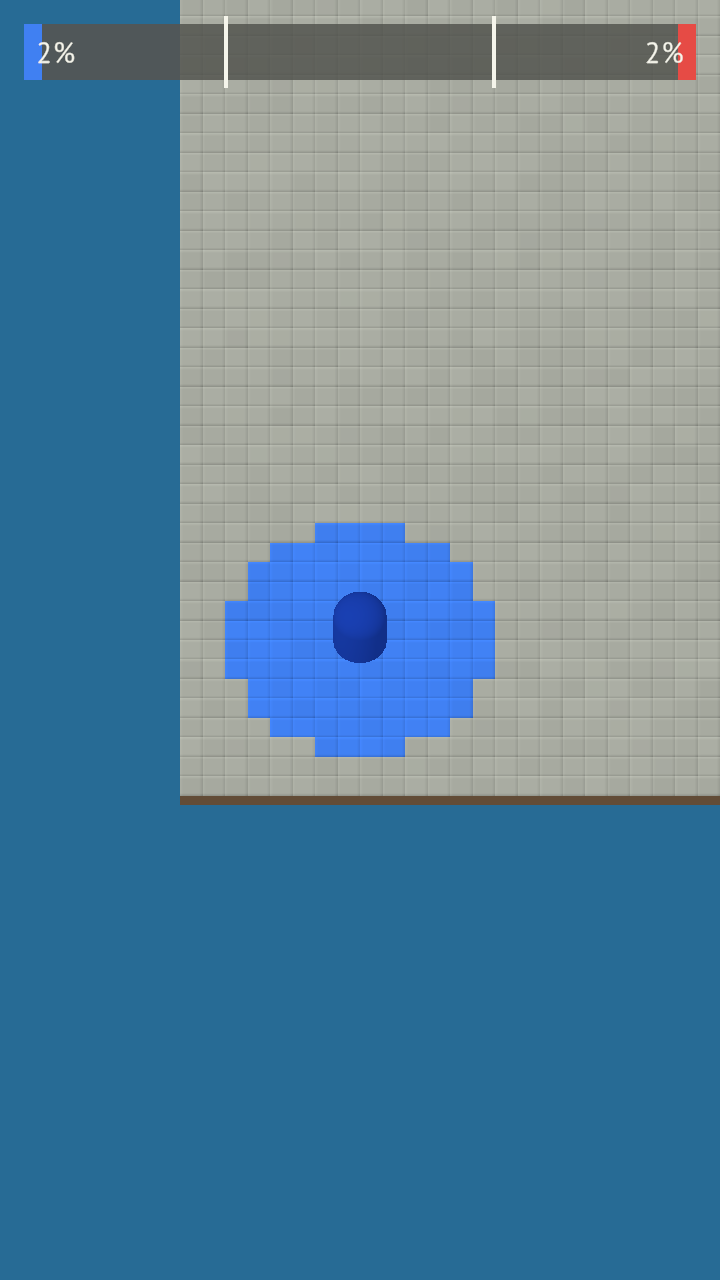
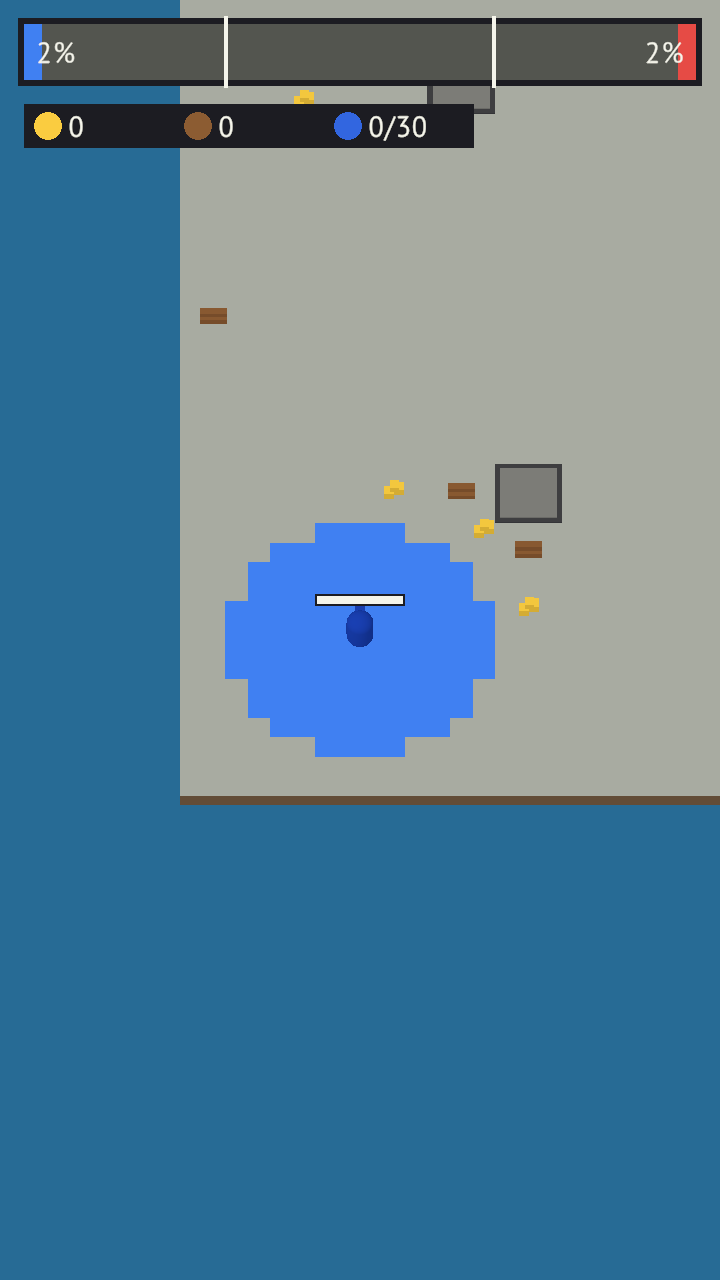
Add stage 1 layer 2 checks and morning report

diff --git a/Docs/MORNING_REPORT.md b/Docs/MORNING_REPORT.md
@@ -1,41 +1,47 @@
-# Утренний отчёт — этап 1, слой 1 «Ядро»
+# Утренний отчёт — этап 1, слои 1 и 2
 
-3 ноября 2026. ТЗ: `borderbite-docs/tz/stage-1-prototype.md`, раздел 2. Задачи 1.1–1.5 сделаны и отмечены в `PROGRESS.md`. Слои 2–4 не начинались.
+3 ноября 2026. ТЗ: `borderbite-docs/tz/stage-1-prototype.md`, разделы 2 и 3. Задачи 1.1–1.5 и 2.1–2.5 сделаны и отмечены в `PROGRESS.md`. Слои 3–4 не начинались. Слой 2 закоммичен в `develop` локально, без пуша — ждёт вашего слова.
 
-## Что готово
+## Слой 2 «Экономика и армия» — что готово
 
 | № | Задача | Как проверено | Скриншоты (`Docs/Verification/stage-1/`) |
 | --- | --- | --- | --- |
-| 1.1 | Карта 64 × 64, стартовые круги, перекраска со вспышкой 0,15 с, клетки-«кубики» без зазоров, вода вокруг острова | Тесты, Play Mode | `1.1_map_overview`, `1.1_start` |
-| 1.2 | Герой 5 м/с, плавающий стик (палец и мышь), WASD и стрелки, край не пускает и даёт скользить, камера 60° с обзором 16 м по меньшей стороне | Тесты (скорость по диагонали, край), ввод через Input System в Play Mode | `1.2_portrait_*`, `1.2_landscape_mouse_stick` |
-| 1.3 | Кисть радиусом 2 клетки красит серое и красное | Тесты, проход героя | `1.3_gray_*`, `1.3_red_*` |
-| 1.4 | Окружение по 2.5, волна от места замыкания, звук, «+N%» | Тесты на три случая из ТЗ и защищённые клетки; замыкание кольца в Play Mode | `1.4_ring_before`, `1.4_ring_wave`, `1.4_ring_after` |
-| 1.5 | Полоса с отметками 70 %, победа и поражение, итоги через 1 с, «Ещё раз», команды разработчика 2.7 (F1 — сетка, тики, кадры) | Залить 69 %, докрасить героем — победа; поражение командой; en/ru | `1.5_*`, `ui/` |
+| 2.1 | Золото и дерево: стартовые кучки у кругов, появление по таймеру только на сером и не ближе 2 м к героям и бойцам, подбор героем, счётчики в HUD | Тесты; 30 с без движения — 12 золота и 8 дерева, все на сером; подбор | `2.1_*` |
+| 2.2 | 6 мест 3 × 3 зеркально; хозяин — цвет центральной клетки; своё место светится | Скриншоты серого и окрашенного места | `2.2_*` |
+| 2.3 | Стройка 1 с за 10 дерева, цена и кольцо прогресса над местом; аура 3 клетки защищена; найм раз в 0,5 с за 5 золота до 30 | Командой дать ресурсы, построить, нанять 10; красить красным по ауре — круг не меняется | `2.3_*` |
+| 2.4 | Толпа за героем в 1–4 м, бойцы не налезают друг на друга и на героя, 5,5 м/с, кисть 1 клетка | Тесты; герой с 30 бойцами, широкая полоса | `2.4_*` |
+| 2.5 | Автобой: меч 1,2 м / пищаль 6 м со следом выстрела, бойцы бьют вблизи, постройки — когда рядом нет врагов; смерть, возрождение дома через 3 с, 1 с неуязвимости; обломки «кубиками» | Тесты; армия против 10 красных; герой против 12 красных — смерть и возрождение | `2.5_*` |
 
-- EditMode: 79 из 79. Хеш боя на тике 300 одинаков при 60 и 144 кадрах (`39EF5C8375768537`).
-- Сборка Playables: собирается, в headless-Chrome 0 ошибок, по сети 7,06 МиБ (лимит 15), кода других площадок нет. Скриншоты из браузера — `web_playables_*`.
-- Скрипты собираются под все три площадки.
+- EditMode: 95 из 95. Хеш боя на тике 300 одинаков при 60 и 144 кадрах.
+- Сборка Playables: 0 ошибок в браузере, по сети 7,19 МиБ (лимит 15).
+- Поздние правки слоя 1: вода за краем карты и земля без сетки клеток — сделаны (`1.1_ground_no_grid`).
+- Звуки подбора, стройки, найма, удара, выстрела, победы и поражения — синтезированные заглушки, все через таблицу громкостей `Assets/ScriptableObjects/Audio/SoundVolumes.asset`.
 
 ## Что проверить вам
 
-- [ ] Пробежать по серому — полоса за героем без рывков.
-- [ ] Замкнуть кольцо — волна, звук и «+N%» приятны.
-- [ ] Пробежать вдоль края — ничего лишнего не захватывается.
-- [ ] Стик на телефоне: появляется под пальцем, герой слушается сразу.
-- [ ] Докрасить до 70 % — победа, «Ещё раз» работает.
+- [ ] Собрать дерево, встать на своё место — казарма вырастает, кольцо прогресса понятно.
+- [ ] Постоять у казармы — бойцы появляются, армия идёт толпой и красит широкую полосу.
+- [ ] Рост армии виден по ширине полосы.
+- [ ] Бой читается: выстрелы, удары, обломки; смерть и возрождение не путают.
+- [ ] Звуки не надоедают при 30 бойцах.
 
 ## Чего я проверить не мог
 
-- Ощущение управления и стик на настоящем телефоне — только события Input System в редакторе.
-- Звук захвата на слух: проверено только, что он запрашивается. Сам звук — синтезированная заглушка.
-- Производительность на слабом Android и Chromebook.
+- Ощущение управления и игру на настоящем телефоне; звуки на слух.
+- Производительность 60 бойцов на слабом Android и Chromebook.
 
-## Решения, принятые без вас
+## Решения, принятые без вас (в `QUESTIONS.md`)
 
-Записаны в `QUESTIONS.md` документации: ортографическая камера; как считать «16 м по меньшей стороне» в альбоме; «+N%» белым и в пределах экрана; звук-заглушка.
+- Пока штаба нет (слой 3), герой возрождается в центре своей стартовой области.
+- Вражеские бойцы без героя (команда `Soldiers`) держатся точки появления и дерутся с теми, кто подошёл на 4 м.
+- Толпа — места по квадратной спирали через 1 м вокруг героя, у каждого бойца постоянный сдвиг до 0,3 м.
+- Счётчики золота, дерева и армии — заглушка строкой под полосой; в альбоме HUD выше 120 единиц, которые просил дизайнер интерфейса, — уйдёт с его сборщиком.
 
-## Заглушки и что дальше
+## Слой 1 «Ядро» (сделан раньше)
 
-- Стик, полоса и итоги — временный вид из `MainSceneBuilder` без кита и темы. Дизайнер интерфейса соберёт их своими сборщиками на те же компоненты (`MoveStickView`, `TerritoryBarView`, `ResultsView`, `CapturePopupView`).
-- Герой — капсула, клетки и вода — простые шейдеры. Модели не заказывались: ТЗ разрешает заглушки на всех слоях.
-- Код слоя писался одним куском, поэтому он в одном коммите, а не по коммиту на задачу.
+Карта 64 × 64 с водой вокруг, герой со стиком, WASD и мышью, камера 60° с обзором 16 м, кисть, окружение с волной, звуком и «+N%», полоса территории, победа при 70 %, итоги и «Ещё раз», команды разработчика. Скриншоты `1.*`, `ui/`, `web_*`.
+
+## Заглушки
+
+- Герой, бойцы, казармы, кучки — кубы и капсулы; модели заказаны геймдизайнером у 3D Artist.
+- Стик, полоса, счётчики, подписи над местами, итоги — временный вид из `MainSceneBuilder`; дизайнер интерфейса соберёт их на те же компоненты.

diff --git a/Docs/UNITY_TOOLS.md b/Docs/UNITY_TOOLS.md
@@ -13,7 +13,7 @@
 | Скрипты под все площадки | `call` на `Core.EditorTools.PlatformBuild, Assembly-CSharp-Editor`, метод `CheckScripts` |
 | Сборка | `call` на `Core.EditorTools.PlatformBuild, Assembly-CSharp-Editor`, метод `BuildYouTube`, `BuildCrazyGames` или `BuildYandex` → `Build/<площадка>`, `Logs/build_summary.json` |
 | Команды разработчика | `call` на `Meta.DeveloperTools.Services.DevBridge, Assembly-CSharp`: `State`, `SetLanguage`, `BattleCheckStart(кадры)`, `BattleCheckResult`, `SimulatePause`, `SimulateAudio`, `SimulateFocus`, `Interstitial(место)` |
-| Бой | `DevBridge`: `Battle` (тик, итог, доли в ‰, герой в клетках), `Restart`, `Walk(x,y)`, `WalkTicks(x,y,тики)`, `WalkPath("x,y,тики;…")`, `PaintRect(сторона,x0,y0,x1,y1)`, `FillShare(сторона,проценты)`, `ForceResult(Victory\|Defeat)`, `ShowDebug(bool)` (как F1: сетка, тики, кадры), `Overview(bool)` (вся карта сверху), `FreezeAfterCapture(секунды)` (пауза площадки после следующего окружения — волна и «+N%» остаются на скриншоте). Стороны: `Player`, `Enemy`, `Neutral` |
+| Бой | `DevBridge`: `Battle` (тик, итог, доли в ‰, герой в клетках), `Restart`, `Walk(x,y)`, `WalkTicks(x,y,тики)`, `WalkPath("x,y,тики;…")`, `PaintRect(сторона,x0,y0,x1,y1)`, `FillShare(сторона,проценты)`, `ForceResult(Victory\|Defeat)`, `ShowDebug(bool)` (как F1: сетка, тики, кадры), `Overview(bool)` (вся карта сверху), `FreezeAfterCapture(секунды)` (пауза площадки после следующего окружения — волна и «+N%» остаются на скриншоте), `FreezeIn(секунды)` (пауза площадки через столько секунд — поймать бой). Слой 2: `Give(сторона,золото,дерево)`, `Soldiers(сторона,число,x,y)` (бойцы вокруг клетки; без героя держатся этой точки), `Build(сторона,место 0–5)`, `Sites` (места: центр, хозяин, казарма, прогресс). Стороны: `Player`, `Enemy`, `Neutral` |
 | Ввод и окно Game | `call` на `Core.EditorTools.InputScript, Assembly-CSharp-Editor`: `SetGameView(ш,в)`, `TouchDown/TouchMove/TouchUp(x,y)` (палец на виртуальном тачскрине), `Mouse(x,y,нажата)`, `Keys("W,A")` (пусто — отпустить). Координаты — пиксели окна Game, от нижнего левого угла |
 | Помощники в оболочке | `. Tools/WebGLCheck/selfcheck.sh`, затем `play enter`, `db Battle`, `is SetGameView "[1080,1920]"`, `shot <имя>` (в `Docs/Verification/stage-1/`), `counts` |
 
@@ -26,6 +26,7 @@
 - Операции `exists` в мосте нет (только `assert` с `kind:"exists"`); `find` не видит объекты в `DontDestroyOnLoad` — для них `eval` с `GameObject.Find`.
 - В Play Mode один пакет отвечает за 1–3,5 с: путь героя задавать `WalkTicks`/`WalkPath`, а короткие моменты (волна окружения) ловить `FreezeAfterCapture`, а не `sleep`.
 - `click`/`mouseDrag` моста идут в EventSystem мимо Input System: стик ими не проверить, только `InputScript`.
+- Встроенный меш `Capsule.fbx` — 2 × 4 × 2 единицы (а `Cube.fbx` — 1 × 1 × 1): масштаб капсулы делить пополам.
 - Без символа площадки сборка плеера не компилируется намеренно: собирать только через `Tools/Build`.
 
 ## Проверка сборки в браузере
